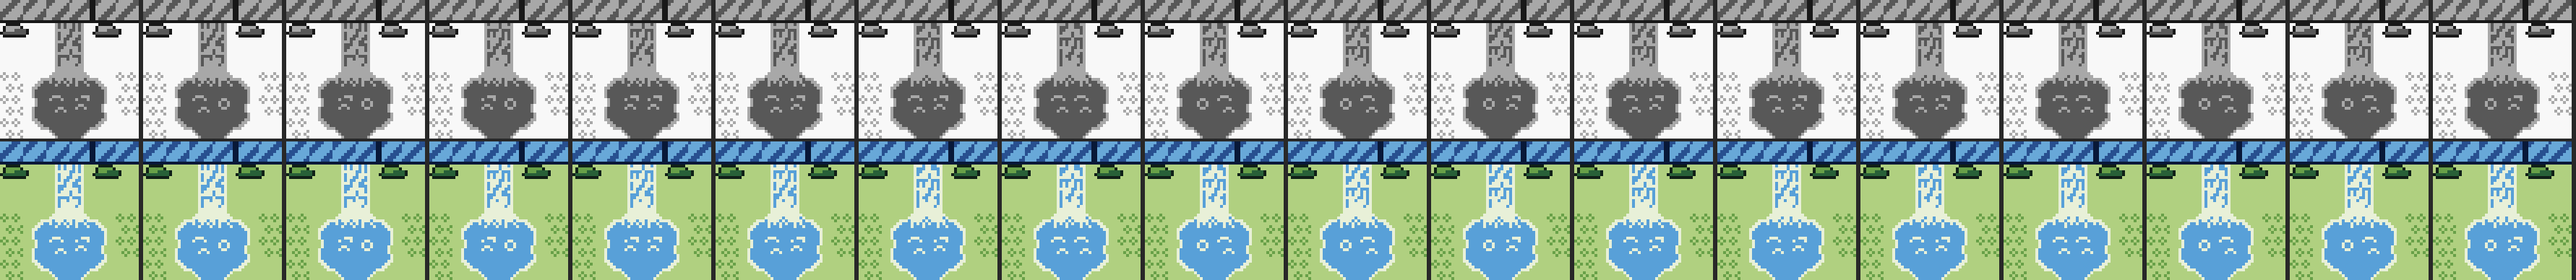
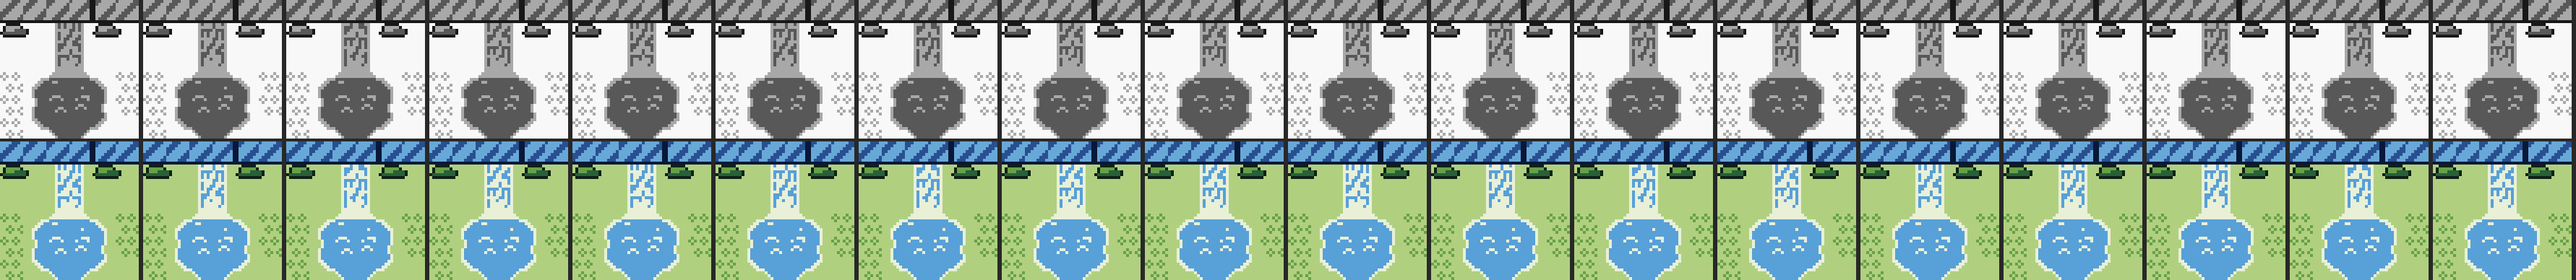
Animations: 6 logs that sink, pool glints instead of bubbles
Logs cut from 12 to 6 (3 across, 3 upright, spread along the river; the other
6 are plain water). A kept log stays put and the waterline rises over its
lowest 1-2 rows with a foam line. The falls pool loses the bubbles and spray
and gets the very subtle glints; the foam lip stays. Re-rendered 02 and 09,
contact sheet, NOTES, new before/after sheet. Proposal only: no assets/,
engine or goldens.

Claude-Session: https://claude.ai/code/session_01WXumg9pvGTKbXyU3qBciuY

diff --git a/docs/dev/proposals/smap_anim/items.py b/docs/dev/proposals/smap_anim/items.py
@@ -54,21 +54,20 @@ def water(a5, strength="vsubtle"):
 #    on each side), breaking into foam holes, bubbles and a few spray pixels below.  Kept pixel-exact: the bank rims (land 0, rim 1) at both sides of every falls row and of the pool's
 #    four widening rows; pool rows 6-7 of the foot cells (they join the splash cells below); the splash cells themselves.  NEW STATIC ART: the 4 falls tiles + 2 foot tiles change on the map.
 #    Falls: the 12 flowing rows (0-11) fall 3 rows a step, 4 frames, 9 video frames a step (the aliasing note: a step must stay smaller than the gaps between streaks); the lower four
-#    rows (12-15) are a fixed foam lead-in.  Foot band: bubbles move gently, one picture held 18 frames, 3 pictures.  Splash (pool, below): ring and arcs in turn on the same 36 frames.
+#    rows (12-15) are a fixed foam lead-in.  Foot: foam lip + very subtle glints (the owner dropped the bubbles and spray); the splash arcs below stay as the approved map art, static.
 #    Falls columns f0..f7 (f0 = left tile col 4 ... f3 = col 7; f4 = right tile col 0 ... f7 = col 3), '-' foam / '+' water, rows 0-11 of frame 0 (typed):
 FALL_COLS = ["++-+++-+++-+", "-------++--+", "++---+++---+", "----++-----+", "--+++----++-", "+++---++---+", "-----+++---+", "+++-++-+++-+"]
 FALL_FOOT = ["+--+---+", "+------+", "+-----+-", "--------"]                  # rows 12-15, f0..f7
 FALL_STEP, FALL_FRAMES = 3, 4
-SPL_A = T("++++++++", "++---+++", "+-+++-++", "++++++++", "++++++++", "++++--++", "+++-++-+", "++++++++")
-SPL_B = T("++++++++", "++++---+", "++-+++-+", "++++++++", "+++--+++", "++-++-++", "++++++++", "++++++++")
-SPL_C = T("++++++++", "++++++++", "+++--+++", "++-++-++", "++-++-++", "+++--+++", "++++++++", "++++++++")
-# the foot cells (pool rows 0-5), bubbling: A is the static picture; '.' land, '-' foam or rim, '+' water; rows 6-7 are the pool's own water
-FOOT_L = [T("...-----", "..------", ".-------", "--+---+-", "+-++-+-+", "+++-+++-", "++++++++", "++++++++"),
-          T("...-----", "..------", ".------+", "-+----+-", "++-+-+-+", "++-+++-+", "++++++++", "++++++++"),
-          T("...-----", "..------", ".-----+-", "--+--+--", "+-+++-+-", "+++++-++", "++++++++", "++++++++")]
-FOOT_R = [T("-----...", "------..", "-------.", "-+---+--", "-+-++-++", "++-+++-+", "++++++++", "++++++++"),
-          T("-----...", "------..", "-----+-.", "+-----+-", "-++-+-++", "+++-++-+", "++++++++", "++++++++"),
-          T("-----...", "------..", "-+-----.", "-+--+---", "+-++-++-", "++++-+++", "++++++++", "++++++++")]
+# the foot cells (the pool's first two cells, rows 0-7): the foam lip where the falls land (rows 0-2, solid) and, below it, the very subtle water glints of the water tiles (a 2 px dash
+# in the left cell, a single pixel in the right, shifting 1 px left and right, same pace as WA and WB).  No bubbles, no spray (owner).  '.' land, '-' foam or rim, '+' water.
+FOOT_L = [T("...-----", "..------", ".-------", "-+++++++", "++--++++", "++++++++", "++++++++", "++++++++"),
+          T("...-----", "..------", ".-------", "-+++++++", "+--+++++", "++++++++", "++++++++", "++++++++"),
+          T("...-----", "..------", ".-------", "-+++++++", "+++--+++", "++++++++", "++++++++", "++++++++")]
+FOOT_R = [T("-----...", "------..", "-------.", "+++++++-", "++++++++", "++++++++", "++++-+++", "++++++++"),
+          T("-----...", "------..", "-------.", "+++++++-", "++++++++", "++++++++", "+++-++++", "++++++++"),
+          T("-----...", "------..", "-------.", "+++++++-", "++++++++", "++++++++", "+++++-++", "++++++++")]
+FOOT_PH = (6, 21)                                   # phases of the left and right foot cells (off the water's own 0 and 15 and off the falls steps)
 
 
 def fall_rows(side, k):
@@ -101,31 +100,25 @@ def fall_tiles():
 def falls(a5):
     f = fall_tiles()
     cells = (("FL_A", (46, 5)), ("FL_B", (46, 6)), ("FR_A", (47, 5)), ("FR_B", (47, 6)))
-    old_rim = {n: a5.tile(*c) for n, c in cells}
-    for n, c in cells:                                                              # the bank rim columns must be exactly the map's (seam-fix art)
-        for j in range(8):
-            rim = (0, 1, 2, 3) if n[1] == "L" else (4, 5, 6, 7)
-            assert all(old_rim[n][j][i] == f[(n, 0)][j][i] for i in rim), (n, j)
-    foot_old = {c: a5.tile(*c) for c in ((46, 7), (47, 7))}
-    for j in (0, 1, 2, 3):                                                          # the pool's widening rim, rows 0-3, kept
-        for i in range(8):
-            if foot_old[(46, 7)][j][i] in "01" and i < 4:
-                assert FOOT_L[0][j][i] == foot_old[(46, 7)][j][i] or (j, i) in ((0, 3), (1, 2), (2, 1), (3, 0)), ("L", j, i)
-    for j in (6, 7):
-        assert FOOT_L[0][j] == foot_old[(46, 7)][j] and FOOT_R[0][j] == foot_old[(47, 7)][j]
-    for n, (cx, cy) in cells:
-        pass
     new_static = {(46, 5): f[("FL_A", 0)], (46, 6): f[("FL_B", 0)], (47, 5): f[("FR_A", 0)], (47, 6): f[("FR_B", 0)], (46, 7): FOOT_L[0], (47, 7): FOOT_R[0]}
+    for (cx, cy), tile in new_static.items():                                       # land (0) and rim (1) pixels of the map's cells must be exactly kept; the pool's row 7 too
+        old = a5.tile(cx, cy)
+        bank = range(8) if cy == 7 else (range(0, 4) if cx == 46 else range(4, 8))      # falls cells: only the bank columns are fixed (the water columns are redrawn)
+        for j in range(8):
+            for i in bank:
+                if old[j][i] in "01":
+                    assert tile[j][i] == old[j][i], ((cx, cy), j, i)
+        if cy == 7:
+            assert tile[7] == old[7], (cx, cy)
     for (cx, cy), tile in new_static.items():                                       # NEW STATIC ART on the shared scene (every item that shows the falls sees it)
         for j, r in enumerate(tile):
             for i, c in enumerate(r):
                 a5.px[cy * 8 + j, cx * 8 + i] = int(c)
     seq = list(range(FALL_FRAMES))
     an = [TileAnim(n, c, [f[(n, k)] for k in range(1, FALL_FRAMES)], seq, 9) for n, c in cells]
-    bseq = [0, 0, 1, 1, 0, 0, 2, 2]
-    an += [TileAnim("FOOT_L", (46, 7), [FOOT_L[1], FOOT_L[2]], bseq, 9, 3), TileAnim("FOOT_R", (47, 7), [FOOT_R[1], FOOT_R[2]], bseq, 9, 3)]
-    an += [TileAnim("SPL_L", (46, 8), [SPL_B, SPL_C], [0, 1, 0, 2], 9, 3), TileAnim("SPL_R", (47, 8), [SPL_A, SPL_C], [0, 2, 0, 1], 9, 6)]
-    return Item("02_falls", "Waterfall (foam drop) and splash pool", a5, (304, 0), an, focus=(352, 32, 400, 80))
+    gseq = [0, 0, 1, 0, 0, 2]
+    an += [TileAnim("FOOT_L", (46, 7), [FOOT_L[1], FOOT_L[2]], gseq, 30, FOOT_PH[0]), TileAnim("FOOT_R", (47, 7), [FOOT_R[1], FOOT_R[2]], [0, 0, 2, 0, 0, 1], 30, FOOT_PH[1])]
+    return Item("02_falls", "Waterfall (foam drop, foam lip, glints in the pool)", a5, (304, 0), an, focus=(352, 32, 400, 80))
 
 
 # -------------------------------------------------------------------------------------------------------------------------------------------------
@@ -295,38 +288,59 @@ def cows(a5):
 
 
 # -------------------------------------------------------------------------------------------------------------------------------------------------
-# 9  LOGS BOB (owner: "can we make the logs bob in the water?"): the 12 v1 single logs (7 across, 5 upright) float on flat water (WF), so their cells carry no water glints and need no
-#    shared frame set with the glints.  A across log (2 cells, 16 x 8) sinks 1 px and comes back; an upright log (2 cells, 8 x 16) rises 1 px and comes back (its bottom row is the last
-#    row of its cell, so sinking would have to write the cell below; rising only needs its own two cells).  The log moves with its ripple (across) and the water refills the row it leaves.
-#    One step every 36 frames (0.6 s), rest for 3 steps, down 1, up 1: a 180-frame loop (the same as the water glints), 2 changes in 3 s; every step lands off the falls (9) and water (15) steps.  A tile id is rewritten once for every log that shares it, so the logs are split into
-#    three phase groups A, B, C (own tile ids per group, same 2 pictures): the groups bob 30 or more frames apart and a step never rewrites more than 2 tiles.
+# 9  LOGS SINK (owner: "fewer logs ... bobbling logs should actually seem to sink a bit in the water, not just shift position"): 6 of the 12 v1 logs stay, spread along the river (3 across,
+#    3 upright, y cell 20 to 68); the other 6 are plain water (flat WF tile, no new art).  A log does not move: the waterline rises over its lowest 1-2 rows, which turn to water with a
+#    1 px foam line where water meets wood, then it comes back.  Across logs change both of their cells (rows 4-5); an upright log only its bottom cell (rows 14-15).  The floating logs
+#    sit on flat water, so their cells carry no glints to combine.  Step 18 frames; rest 5 steps, down 1 row, down 2 rows (held), back 1 row, rest: a 180-frame loop.  Three phase groups
+#    (one log each), their steps picked so that no two logs step in the same frame and none meets a water step
 LOG_HL = T("22222222", "22233333", "22331113", "22333333", "22333311", "22233333", "21122222", "22222222")
 LOG_HR = T("22222222", "33333332", "33331113", "33331313", "13331113", "33333332", "22222112", "22222222")
-LOG_HL_B = T("22222222", "22222222", "22233333", "22331113", "22333333", "22333311", "22233333", "21122222")
-LOG_HR_B = T("22222222", "22222222", "33333332", "33331113", "33331313", "13331113", "33333332", "22222112")
+LOG_HL_S1 = T("22222222", "22233333", "22331113", "22333333", "22333311", "22211111", "21122222", "22222222")
+LOG_HR_S1 = T("22222222", "33333332", "33331113", "33331313", "13331113", "11111112", "22222112", "22222222")
+LOG_HL_S2 = T("22222222", "22233333", "22331113", "22333333", "22111111", "22222222", "21122222", "22222222")
+LOG_HR_S2 = T("22222222", "33333332", "33331113", "33331313", "11111111", "22222222", "22222112", "22222222")
 LOG_VT = T("21122222", "22222222", "22333222", "23333322", "23133322", "23133322", "23133322", "23333322")
 LOG_VB = T("23331322", "23331322", "23331322", "23333322", "23111322", "23131322", "23111322", "22333222")
-LOG_VT_B = T("22222222", "22333222", "23333322", "23133322", "23133322", "23133322", "23333322", "23331322")
-LOG_VB_B = T("23331322", "23331322", "23333322", "23111322", "23131322", "23111322", "22333222", "22222222")
-LOGS_H = {"A": [(48, 33), (42, 52), (44, 68)], "B": [(54, 33), (43, 57)], "C": [(57, 32), (42, 65)]}        # left cell of each across log
-LOGS_V = {"A": [(46, 20), (45, 43)], "B": [(46, 29), (45, 46)], "C": [(46, 36)]}                         # top cell of each upright log
-LOG_PH_H = {"A": 6, "B": 66, "C": 120}
-LOG_PH_V = {"A": 12, "B": 75, "C": 141}
+LOG_VB_S1 = T("23331322", "23331322", "23331322", "23333322", "23111322", "23131322", "23111322", "22111222")
+LOG_VB_S2 = T("23331322", "23331322", "23331322", "23333322", "23111322", "23131322", "21111122", "22222222")
+LOGS_H_ALL = [(48, 33), (54, 33), (57, 32), (42, 52), (43, 57), (42, 65), (44, 68)]
+LOGS_V_ALL = [(46, 20), (46, 29), (46, 36), (45, 43), (45, 46)]
+LOGS_H = {"A": [(42, 52)], "B": [(43, 57)], "C": [(44, 68)]}                 # kept across logs (left cell)
+LOGS_V = {"A": [(46, 20)], "B": [(46, 29)], "C": [(45, 43)]}                 # kept upright logs (top cell)
+LOG_PH_H = {"A": 111, "B": 81, "C": 6}
+LOG_PH_V = {"A": 66, "B": 162, "C": 87}
+LOG_SEQ = [0, 0, 0, 0, 0, 1, 2, 2, 1, 0]
 
 
 def logs(a5):
+    kept_h = {c for v in LOGS_H.values() for c in v}
+    kept_v = {c for v in LOGS_V.values() for c in v}
+    water = ("22222222",) * 8
+    for (x, y) in LOGS_H_ALL:                                                        # the removed logs: plain water
+        if (x, y) not in kept_h:
+            assert a5.tile(x, y) == LOG_HL and a5.tile(x + 1, y) == LOG_HR, (x, y)
+            for cx in (x, x + 1):
+                for j in range(8):
+                    for i in range(8):
+                        a5.px[y * 8 + j, cx * 8 + i] = 2
+    for (x, y) in LOGS_V_ALL:
+        if (x, y) not in kept_v:
+            assert a5.tile(x, y) == LOG_VT and a5.tile(x, y + 1) == LOG_VB, (x, y)
+            for cy in (y, y + 1):
+                for j in range(8):
+                    for i in range(8):
+                        a5.px[cy * 8 + j, x * 8 + i] = 2
     an = []
     for g, lst in LOGS_H.items():
-        for (x, y) in lst:
-            assert a5.tile(x, y) == LOG_HL and a5.tile(x + 1, y) == LOG_HR, (x, y)
-        an.append(TileAnim(f"H{g}_L", lst[0], [LOG_HL_B], [0, 0, 0, 1, 0], 36, LOG_PH_H[g], cells_list=tuple(lst)))
-        an.append(TileAnim(f"H{g}_R", (lst[0][0] + 1, lst[0][1]), [LOG_HR_B], [0, 0, 0, 1, 0], 36, LOG_PH_H[g], cells_list=tuple((x + 1, y) for x, y in lst)))
+        (x, y), = lst
+        assert a5.tile(x, y) == LOG_HL and a5.tile(x + 1, y) == LOG_HR, (x, y)
+        an.append(TileAnim(f"H{g}_L", (x, y), [LOG_HL_S1, LOG_HL_S2], LOG_SEQ, 18, LOG_PH_H[g], only_at=True))
+        an.append(TileAnim(f"H{g}_R", (x + 1, y), [LOG_HR_S1, LOG_HR_S2], LOG_SEQ, 18, LOG_PH_H[g], only_at=True))
     for g, lst in LOGS_V.items():
-        for (x, y) in lst:
-            assert a5.tile(x, y) == LOG_VT and a5.tile(x, y + 1) == LOG_VB, (x, y)
-        an.append(TileAnim(f"V{g}_T", lst[0], [LOG_VT_B], [0, 0, 0, 1, 0], 36, LOG_PH_V[g], cells_list=tuple(lst)))
-        an.append(TileAnim(f"V{g}_B", (lst[0][0], lst[0][1] + 1), [LOG_VB_B], [0, 0, 0, 1, 0], 36, LOG_PH_V[g], cells_list=tuple((x, y + 1) for x, y in lst)))
-    return Item("09_logs", "Floating logs bobbing (v1 logs, three phase groups)", a5, (336, 224), an, focus=(376, 232, 480, 296))
+        (x, y), = lst
+        assert a5.tile(x, y) == LOG_VT and a5.tile(x, y + 1) == LOG_VB, (x, y)
+        an.append(TileAnim(f"V{g}_B", (x, y + 1), [LOG_VB_S1, LOG_VB_S2], LOG_SEQ, 18, LOG_PH_V[g], only_at=True))
+    return Item("09_logs", "Floating logs sinking (6 logs, three phase groups)", a5, (304, 320), an, focus=(328, 340, 376, 472))
 
 
 def all_items(a5):

diff --git a/docs/dev/proposals/smap_anim/build.py b/docs/dev/proposals/smap_anim/build.py
@@ -138,7 +138,7 @@ json.dump({"max": int(cnt.max()), "writes_per_s": cnt.sum() / (T / 60), "frames_
 GROUPS = {"river top (falls + water)": ["01_water", "02_falls"], "town (bunting + fountain + river water)": ["01_water", "03_fountain", "04a_bunting"],
           "lodge (smoke + water)": ["01_water", "06a_smoke_lodge"], "factory (smoke)": ["06b_smoke_factory"], "milk bar (two tails + lake water)": ["01_water", "07_cow_tail"],
           "airbase (dish + lamp, one frame set)": ["05_airbase"], "stadium (flag)": ["04b_stadium_flag"], "igloo (smoke + falls + water)": ["01_water", "02_falls", "06c_smoke_igloo"],
-          "river scrolled down (falls + one upright log + water)": ["01_water", "02_falls", ("09_logs", {"VA_T", "VA_B"})],
+          "river scrolled down (falls + one upright log + water)": ["01_water", "02_falls", ("09_logs", {"VA_B"})],
           "logs view (6 logs, all groups)": ["01_water", "09_logs"],
           "ALL on screen at once (not possible)": [it.key for it in items]}
 gres = {}

diff --git a/docs/dev/proposals/smap_anim/NOTES.md b/docs/dev/proposals/smap_anim/NOTES.md
@@ -15,10 +15,11 @@ Third pass (owner: "the water glints could be more subtle. Also, the waterfall s
 - Falls direction: the data moved the foam DOWN; the 5-row step aliased (nearest wrong match 3-4 rows up). Now 3 rows a step, a step smaller than the gaps between streaks.
 - Airbase: radar and lamp are one item, `05_airbase.gif`, 2 tiles, +4 images, peak 1 tile (16 B) per frame.
 
-Fourth pass (owner: "can we make the logs bob in the water? New glints are better." / "very subtle water please." / "the waterfall at this point reads more like river than a falls. bottom probably needs foam."):
-- Logs (`09_logs.gif`): the 12 v1 logs sit on flat water (WF), so their cells carry no glints and no frame set is shared with the water. Across logs (16 x 8) sink 1 px with their ripple and come back; upright logs (8 x 16) RISE 1 px and come back (sinking would write the cell below). Three phase groups, ids per group: a step rewrites a group once whatever number of logs share it, so a step is never more than 2 tiles, and the steps land off the falls (every 9 frames) and water (every 15) steps. +4 images, +8 tile ids (margin question for the programmer). Peaks: logs alone 2 tiles; river scrolled down so that falls, one upright log and water show together stays at 5 tiles, 80 B.
-- Falls redrawn (`02_falls.gif`, `before_after_falls_foam.png`): environments.md 11 says "Waterfalls: 1-px vertical streaks of a lighter shade at varied lengths and speeds, edges that jitter by 1 px, and an impact of sparkle pixels plus ripple rings." and "Droplets and foam: compact at rest, a stretched streak mid-flight, compact on landing." The falls are now foam (index 1) with water (index 2) as long vertical streaks, clearly lighter than the river; the lower four rows are a foam lead-in; the pool top has a foam band (it fills the pool, 3 px wider than the falls each side) over bubbles and spray, bubbling in 3 pictures held 18 frames. Kept pixel-exact (asserted in `items.py`): the bank rims on every falls row and the pool's widening rim, the pool rows 6-7 of the two foot cells, the splash cells. Streaks keep one speed (3 rows a step), not "varied speeds", to close the loop in 4 frames: a cost choice. NEW STATIC ART: the 4 falls tiles and the 2 foot tiles on the map change (6 images replace 6).
-- Falls cost: 4 falls tiles x 3 new frames, 2 foot tiles x 2 new, +1 splash ring: 23 images of which 6 are the static map tiles; DMG peak unchanged at 4 tiles, 64 B (falls step); the average rises to 13.2 B a frame on the river top.
+Fourth and fifth pass (owner: "can we make the logs bob in the water? New glints are better." / "very subtle water please." / "the waterfall at this point reads more like river than a falls. bottom probably needs foam." / "Fewer logs in the river please. bobbling logs should actually seem to sink a bit in the water, not just shift position." / "waterfall looks better, but bubbles in the pond under it are unneeded. replace with glints."):
+- Water: VERY SUBTLE (`01_water.gif`; subtle dropped from the build, its tiles stay typed in `items.py`).
+- Logs (`09_logs.gif`): 6 of the 12 logs stay, spread along the river: upright (cell, top) (46,20), (46,29), (45,43); across (left cell) (42,52), (43,57), (44,68). Removed, now plain water (the flat water tile, no new art): across (48,33), (54,33), (57,32), (42,65); upright (46,36), (45,46). A kept log does not move: the waterline rises over its lowest 1 row, then 2 rows (those pixels become water, the row where water meets wood is a 1 px foam line), then back. Across logs rewrite both cells, upright logs only their bottom cell. The logs sit on flat water, so no glints share their tiles. Each log is its own phase group; step 18 frames, rest 5 steps; phases picked so no two logs step in the same frame and none meets a water step. Cost +6 images, +6 tile ids; logs alone peak 2 tiles, 32 B.
+- Falls (`02_falls.gif`, `before_after_falls_logs.png`): environments.md 11, "Waterfalls: 1-px vertical streaks of a lighter shade at varied lengths and speeds, edges that jitter by 1 px, and an impact of sparkle pixels plus ripple rings." and "Droplets and foam: compact at rest, a stretched streak mid-flight, compact on landing." Falls are foam (index 1) with water streaks (index 2) between, clearly lighter than the river; the pool top keeps the foam lip (3 rows), the bubbles, spray and my splash ring are gone, and the pool cells carry the very subtle glints (a dash in the left cell, a pixel in the right, same pace as WA and WB). Kept pixel-exact (asserted in `items.py`): bank rims and land on every falls row and in the pool cells, and pool row 7. One speed (3 rows a step) to close the loop in 4 frames, not "varied speeds": a cost choice. NEW STATIC ART: 4 falls tiles + 2 pool tiles.
+- Open: the two splash arcs below the lip (the approved A5 map tiles, static) look like two little eyes; I read "bubbles" as my foot-band bubbles and kept the arcs. If the owner means the arcs too, they can be swapped for plain water or glints at +0 images.
 
 
 ## The table
@@ -28,7 +29,7 @@ Frames = distinct images of one tile. "Tiles / step" = tile images rewritten in 
 | # | Item | Frames | Tiles / step | ROM tiles | Cadence | Shared or unique | VRAM per step |
 |---|---|---|---|---|---|---|---|
 | 1 | Water glints, VERY SUBTLE (owner pick): tiles WA and WB (19 and 22 cells; WF stays flat). WA one 2 px dash, WB one single pixel (was 6 + 4 px) | 3 each | 1 (WA, WB half a period apart) | +4 (WA, WB redrawn with fewer glints: the map keeps 2 tiles, net 0) | 30, still 2 steps of 3 | shared, cheap | 16 B |
-| 2 | Waterfall REDRAWN as a foam drop: 2 x 2 falls cells mostly foam with long water streaks, foam band + bubbles + spray in the pool top (2 cells), splash pair below | falls 4 (3 rows a step), foot 3 (bubbling), splash 3 | falls 4; foot 2 (every 18 frames); splash 2 | +17 net on the map (23 images, 6 of them replace the old static tiles) | falls 9; foot 9 with 18 held; splash 9 | unique, 8 cells | 64 B / 32 B / 32 B |
+| 2 | Waterfall as a foam drop: 2 x 2 falls cells mostly foam with long water streaks; foam lip where it lands; the rest of the pool has the very subtle glints (no bubbles, no spray); splash arcs below static (approved map art) | falls 4 (3 rows a step), foot 3 (glints) | falls 4; foot 1 | +16 net on the map (22 images, 6 replace static map tiles) | falls 9; foot glints 30 | unique, 6 cells | 64 B / 16 B |
 | 3 | Town fountain: two side streams (2 cells) + basin glints (2 cells), round 3 art | 3 streams, 2 basin | up to 2 | +6 | 12 | unique | 32 B |
 | 4a | Town bunting, 7 flags | 3 | 1 or 2 | +6 | 15, P and Q 6 apart | P, Q shared (3 cells each); end flag unique | 16-32 B |
 | 4b | Approved stadium: wavy flag, 2 cells | 3 | 1 or 2 | +4 | 9 | unique | 16-32 B |
@@ -37,8 +38,8 @@ Frames = distinct images of one tile. "Tiles / step" = tile images rewritten in 
 | 6b | Factory, two stacks | 4 | up to 3 | +15 | 15 | unique; 2 new tile ids | 48 B max |
 | 6c | Igloo (option 1) chimney smoke, 1 cell | 4 | 1 | +3 | 15 | unique | 16 B |
 | 7 | Cow tails, pasture cow and one more (milk bar 4i) | 3 | 1 | +6 (2 are the tail at rest) | 12, rests 36 of 72 | unique; 2 new tile ids | 16 B |
-| 9 | Floating logs bob: 7 across logs sink 1 px, 5 upright logs rise 1 px, three phase groups (own tile ids per group) | 2 per tile | 2 (a group steps at once, groups never together) | +4 (2 pictures for the across pair, 2 for the upright pair), +8 tile ids | 36, rest 3 steps then down then back: a 180-frame loop | per group | 32 B |
-| | Total | | | **about 83 images** (water 4, falls and foot 23 incl. 6 replacing static map tiles, logs 4) | | 14 new tile ids (lodge 2, factory 2, cows 2, logs 8) | |
+| 9 | Floating logs sink: 6 logs stay (3 across, 3 upright), the waterline rises over their lowest 1-2 rows with a 1 px foam line, then they come back; 6 logs removed (plain water) | 3 (rest, 1 row, 2 rows) | across log 2, upright log 1 | +6 (2 per across log tile pair, 1 per upright bottom), 6 new tile ids | 18 per step; rest 5 steps, 1 row, 2 rows held, 1 row: 180-frame loop | per log | 32 B |
+| | Total | | | **about 80 images** (water 4, falls and foot 22 incl. 6 replacing static map tiles, logs 6) | | 12 new tile ids (lodge 2, factory 2, cows 2, logs 6) | |
 
 Dropped from the first table: 8b stadium lamps, pole pennants. 8a mast lamp is merged into 5. Cheap and shared: 1, 4a (P, Q).
 
@@ -55,24 +56,24 @@ Peak tiles written in one video frame, average bytes per frame, per view (phases
 
 | view | peak tiles in one frame | peak bytes | average bytes per frame |
 |---|---|---|---|
-| river top: falls + water | 5 | 80 | 13.2 |
+| river top: falls + water | 5 | 80 | 8.5 |
 | town: bunting + fountain + water | 5 | 80 | 8.4 |
 | lodge: smoke + water | 3 | 48 | 2.8 |
 | factory: both stacks | 3 | 48 | 5.6 |
 | milk bar: tails + water | 2 | 32 | 2.5 |
 | airbase: dish + lamp (one frame set) | 1 | 16 | 1.3 |
 | stadium: flag | 2 | 32 | 3.6 |
-| igloo: smoke + falls + water | 6 | 96 | 14.2 |
-| river scrolled down: falls + one upright log + water | 5 | 80 | 13.5 |
-| logs: six logs, all three groups, + water | 2 | 32 | 2.8 |
-| everything at once (cannot happen) | 19 | 304 | 38.4 |
+| igloo: smoke + falls + water | 6 | 96 | 9.6 |
+| river scrolled down: falls + one upright log + water | 5 | 80 | 8.9 |
+| logs: three logs, all groups, + water | 2 | 32 | 3.9 |
+| everything at once (cannot happen) | 20 | 320 | 34.8 |
 
 Assumed for the programmer to confirm: about 10 tiles (160 B) fit one VBlank. The worst real view (igloo, 6 tiles, 96 B) is about 60% of that; averages are about a tenth. Steps are never aligned on purpose, and any step can slip a frame or two if scroll streaming needs the VBlank. Color writes the same tile bytes to bank 0; attributes do not change except the 2 lodge puff cells.
 
 ## Flicker check (owner rule)
 
 Every consecutive GIF frame pair (wrap included), DMG and Color, plus a look at every distinct state.
-- Largest area changing in one step: 0.26% of the view (falls and foot); logs 0.23%; water 0.11%; all others 0.2% or less. No large change, no white flash.
+- Largest area changing in one step: 0.27% of the view (falls); logs 0.09%; water 0.11%; all others 0.2% or less. No large change, no white flash.
 - The only light left is the mast lamp, now in the airbase set: 1 pixel, one shade step, 2 changes in 2 s (1 a second, one blink per 2 s). Stadium lamps are gone.
 - Water and falls streaks are moving water, not lights (falls: 5 changes a second per pixel, see doubts). Smoke and fountain: one-shade pixels, 2 to 3.3 changes a second per tile.
 - Stadium flag: the approved 8 fps wave, 6.67 changes a second on about 20 pixels, 0.11% of the view. A motion of a cloth, not a light, but the fastest item; period 9 can go to 12 (5 a second) if wanted.
